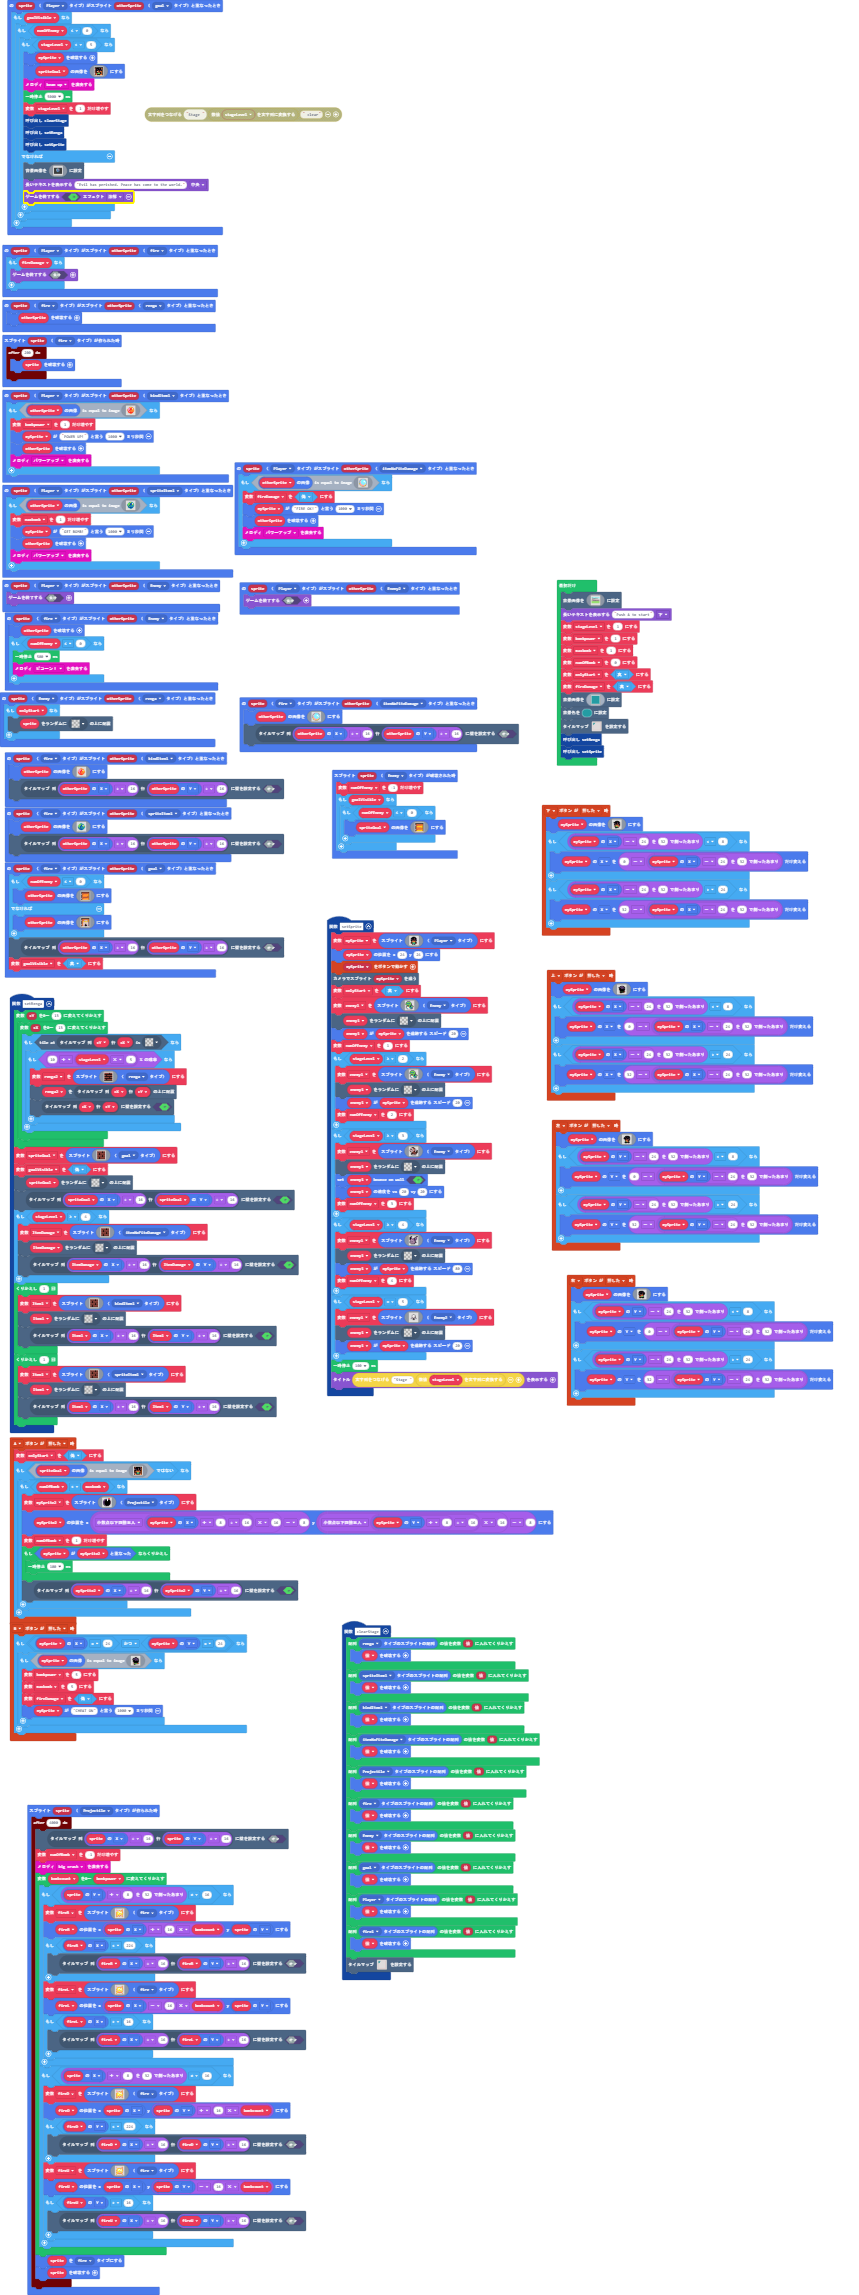
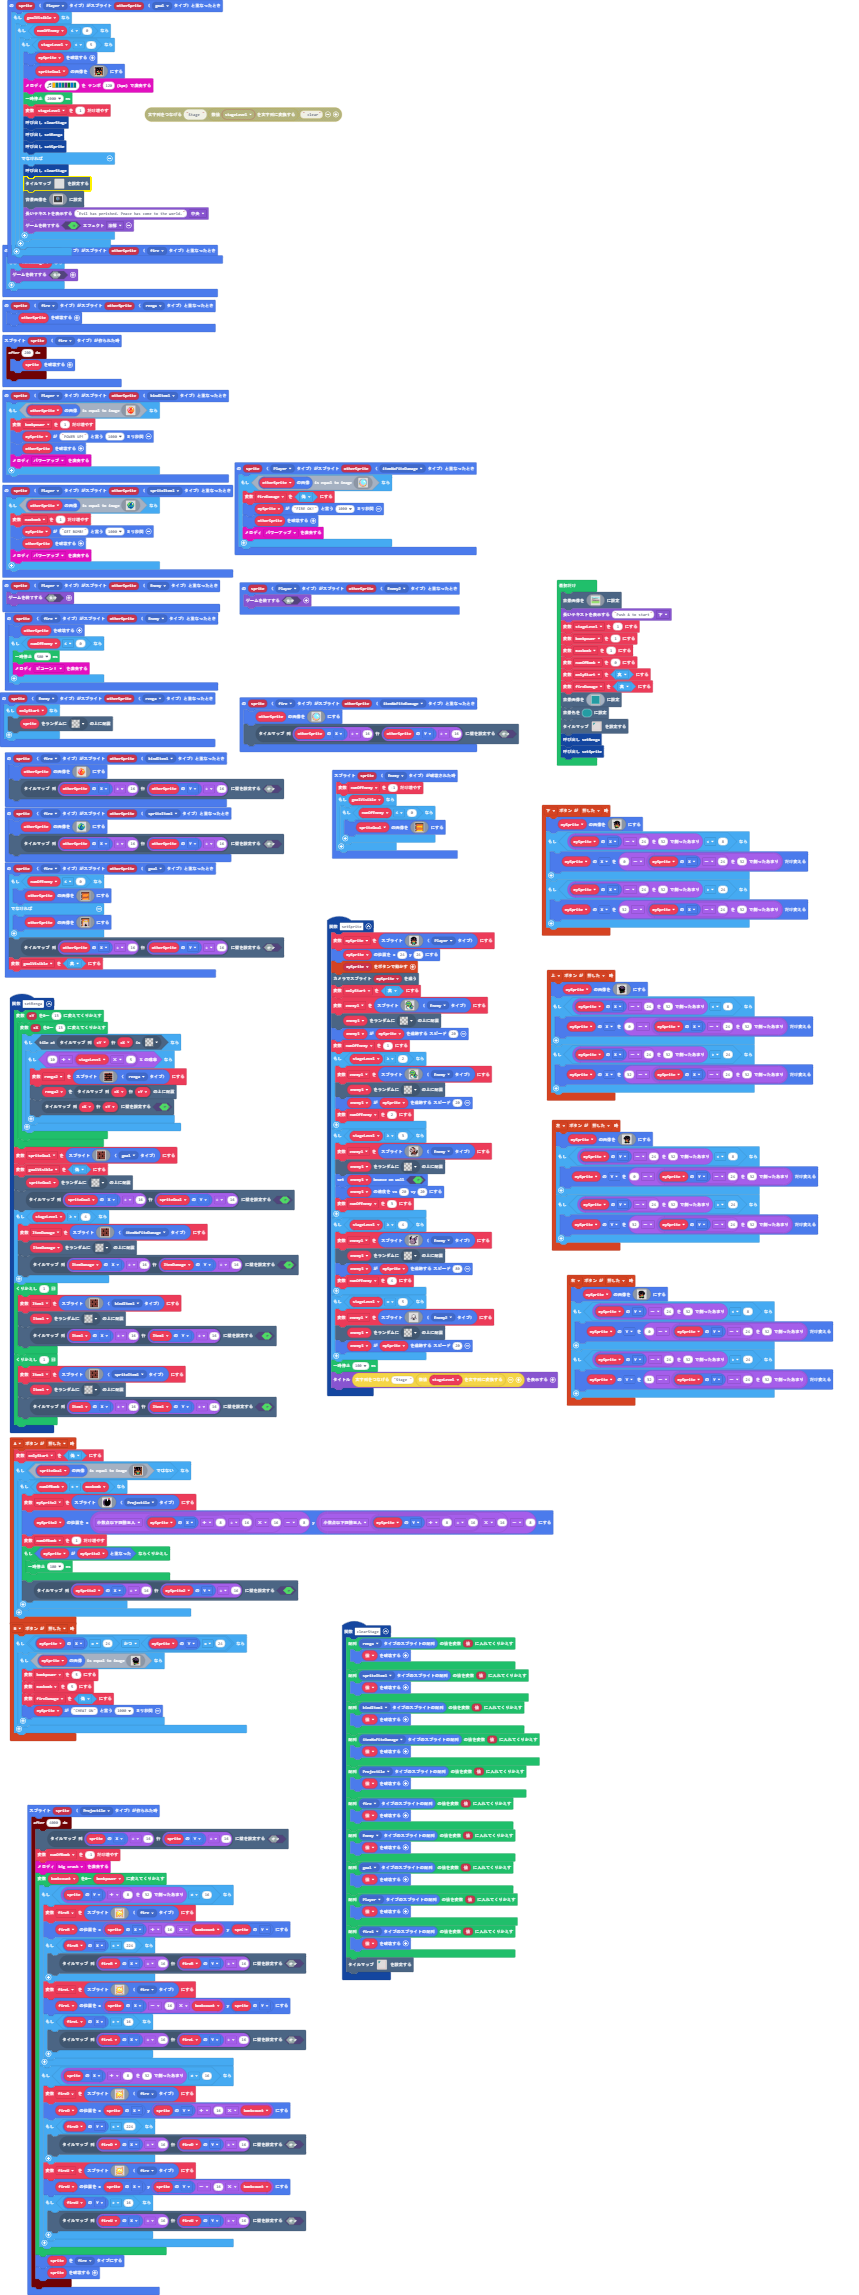
更新 main.blocks, main.ts, tilemap.g.jres, tilemap.g.ts

Changed region(s): [[0.0, 0.0309, 0.2724, 0.1237]]

diff --git a/tilemap.g.ts b/tilemap.g.ts
@@ -201,6 +201,25 @@ namespace myTiles {
 . . . . . . . . . . . . . . . . 
 . . . . . . . . . . . . . . . . 
 `, [myTiles.transparency16,myTiles.tile3], TileScale.Sixteen);
+            case "レベル11":
+            case "レベル11":return tiles.createTilemap(hex`1000100000000000000000000000000000000000000000000000000000000000000000000000000000000000000000000000000000000000000000000000000000000000000000000000000000000000000000000000000000000000000000000000000000000000000000000000000000000000000000000000000000000000000000000000000000000000000000000000000000000000000000000000000000000000000000000000000000000000000000000000000000000000000000000000000000000000000000000000000000000000000000000000000000000000000000000000000000000000000000000000000000000000000000000000000000000000`, img`
+. . . . . . . . . . . . . . . . 
+. . . . . . . . . . . . . . . . 
+. . . . . . . . . . . . . . . . 
+. . . . . . . . . . . . . . . . 
+. . . . . . . . . . . . . . . . 
+. . . . . . . . . . . . . . . . 
+. . . . . . . . . . . . . . . . 
+. . . . . . . . . . . . . . . . 
+. . . . . . . . . . . . . . . . 
+. . . . . . . . . . . . . . . . 
+. . . . . . . . . . . . . . . . 
+. . . . . . . . . . . . . . . . 
+. . . . . . . . . . . . . . . . 
+. . . . . . . . . . . . . . . . 
+. . . . . . . . . . . . . . . . 
+. . . . . . . . . . . . . . . . 
+`, [myTiles.transparency16], TileScale.Sixteen);
         }
         return null;
     })

diff --git a/main.ts b/main.ts
@@ -645,13 +645,15 @@ sprites.onOverlap(SpriteKind.Player, SpriteKind.goal, function (sprite, otherSpr
                     f e 4 4 4 f f f f f f 4 4 4 4 f 
                     f e 4 4 4 f f 4 4 f f 4 4 4 4 f 
                     `)
-                music.beamUp.play()
-                pause(5000)
+                music.playMelody("A F E F D G E F ", 120)
+                pause(2000)
                 stageLevel += 1
                 clearStage()
                 setRenga()
                 setSprite()
             } else {
+                clearStage()
+                tiles.setTilemap(tilemap`レベル11`)
                 scene.setBackgroundImage(img`
                     ffffffffffffffffffffffffffffffffffffffffffffffffffffffffffffffffffffffffffffffffffffffffffffffffffffffffffffffffffffffffffffffffffffffffffffffffffffffffffffffff
                     ffffffffffffffffffffffffffffffffffffffffffffffffffffffffffffffffffffffffffffffffffffffffffffffffffffffffffffffffffffffffffffffffffffffffffffffffffffffffffffffff
